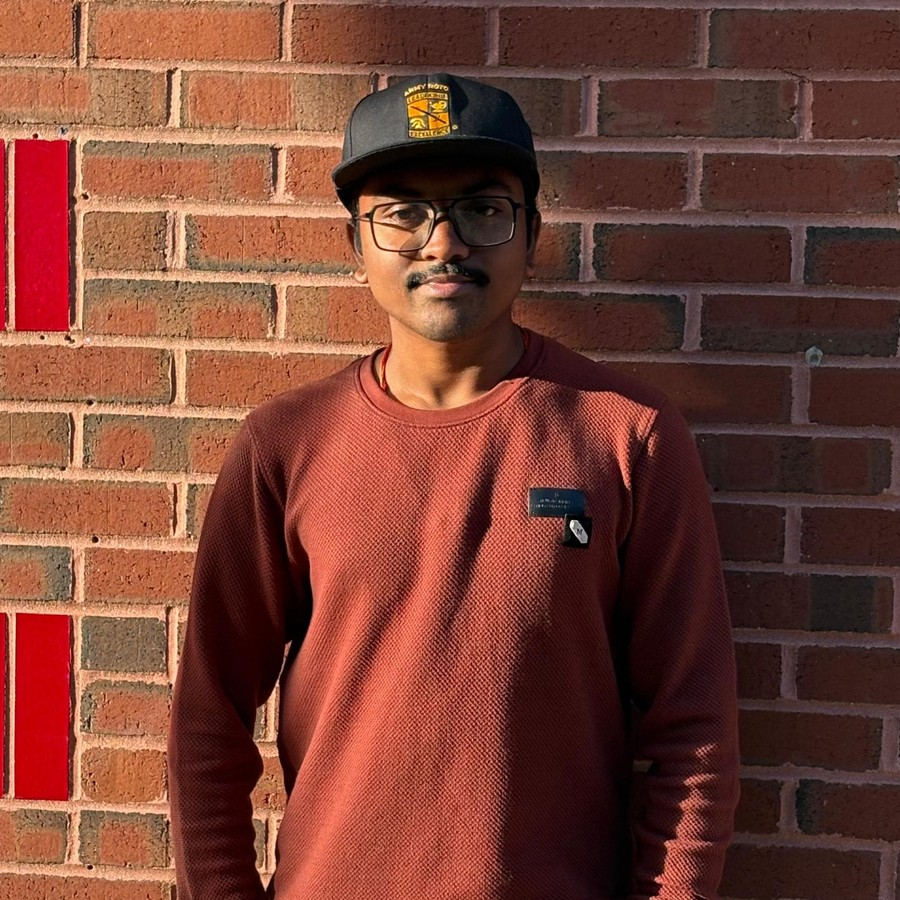
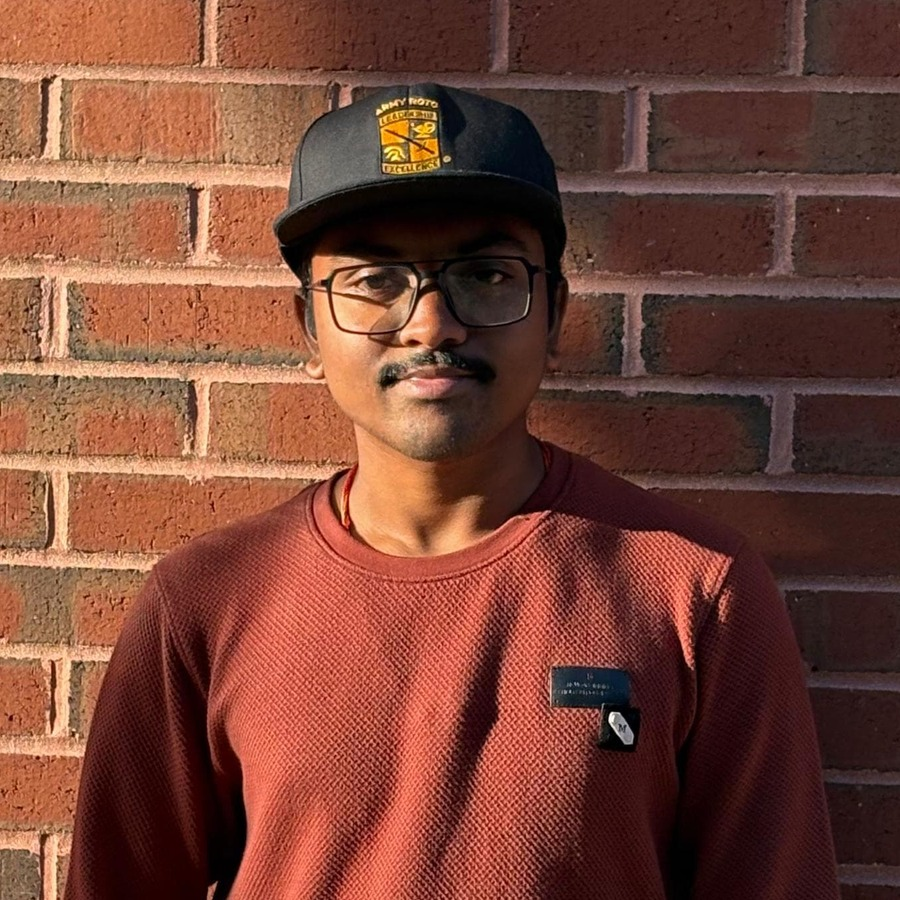
Add files via upload

diff --git a/style.css b/style.css
@@ -74,7 +74,7 @@ a:focus-visible {
   padding: 4.5rem 1.5rem 5rem;
   z-index: 1;
   display: flex;
-  align-items: center;
+  align-items: flex-start;
   justify-content: space-between;
   gap: 2.5rem;
 }
@@ -86,13 +86,15 @@ a:focus-visible {
 
 .portrait {
   flex-shrink: 0;
-  width: 176px;
-  height: 176px;
+  width: 200px;
+  height: 200px;
+  margin-top: 0.4rem;
   border-radius: 50%;
   object-fit: cover;
-  border: 3px solid var(--paper);
-  outline: 1px solid var(--line);
-  box-shadow: 0 4px 18px rgba(20, 24, 31, 0.10);
+  border: 4px solid var(--paper);
+  outline: 2px solid var(--navy);
+  outline-offset: -1px;
+  box-shadow: 0 6px 20px rgba(20, 24, 31, 0.12);
 }
 
 .hero-name {
@@ -345,6 +347,7 @@ a:focus-visible {
 @media (max-width: 640px) {
   .hero {
     flex-direction: column-reverse;
+    align-items: center;
     text-align: center;
     gap: 1.5rem;
   }